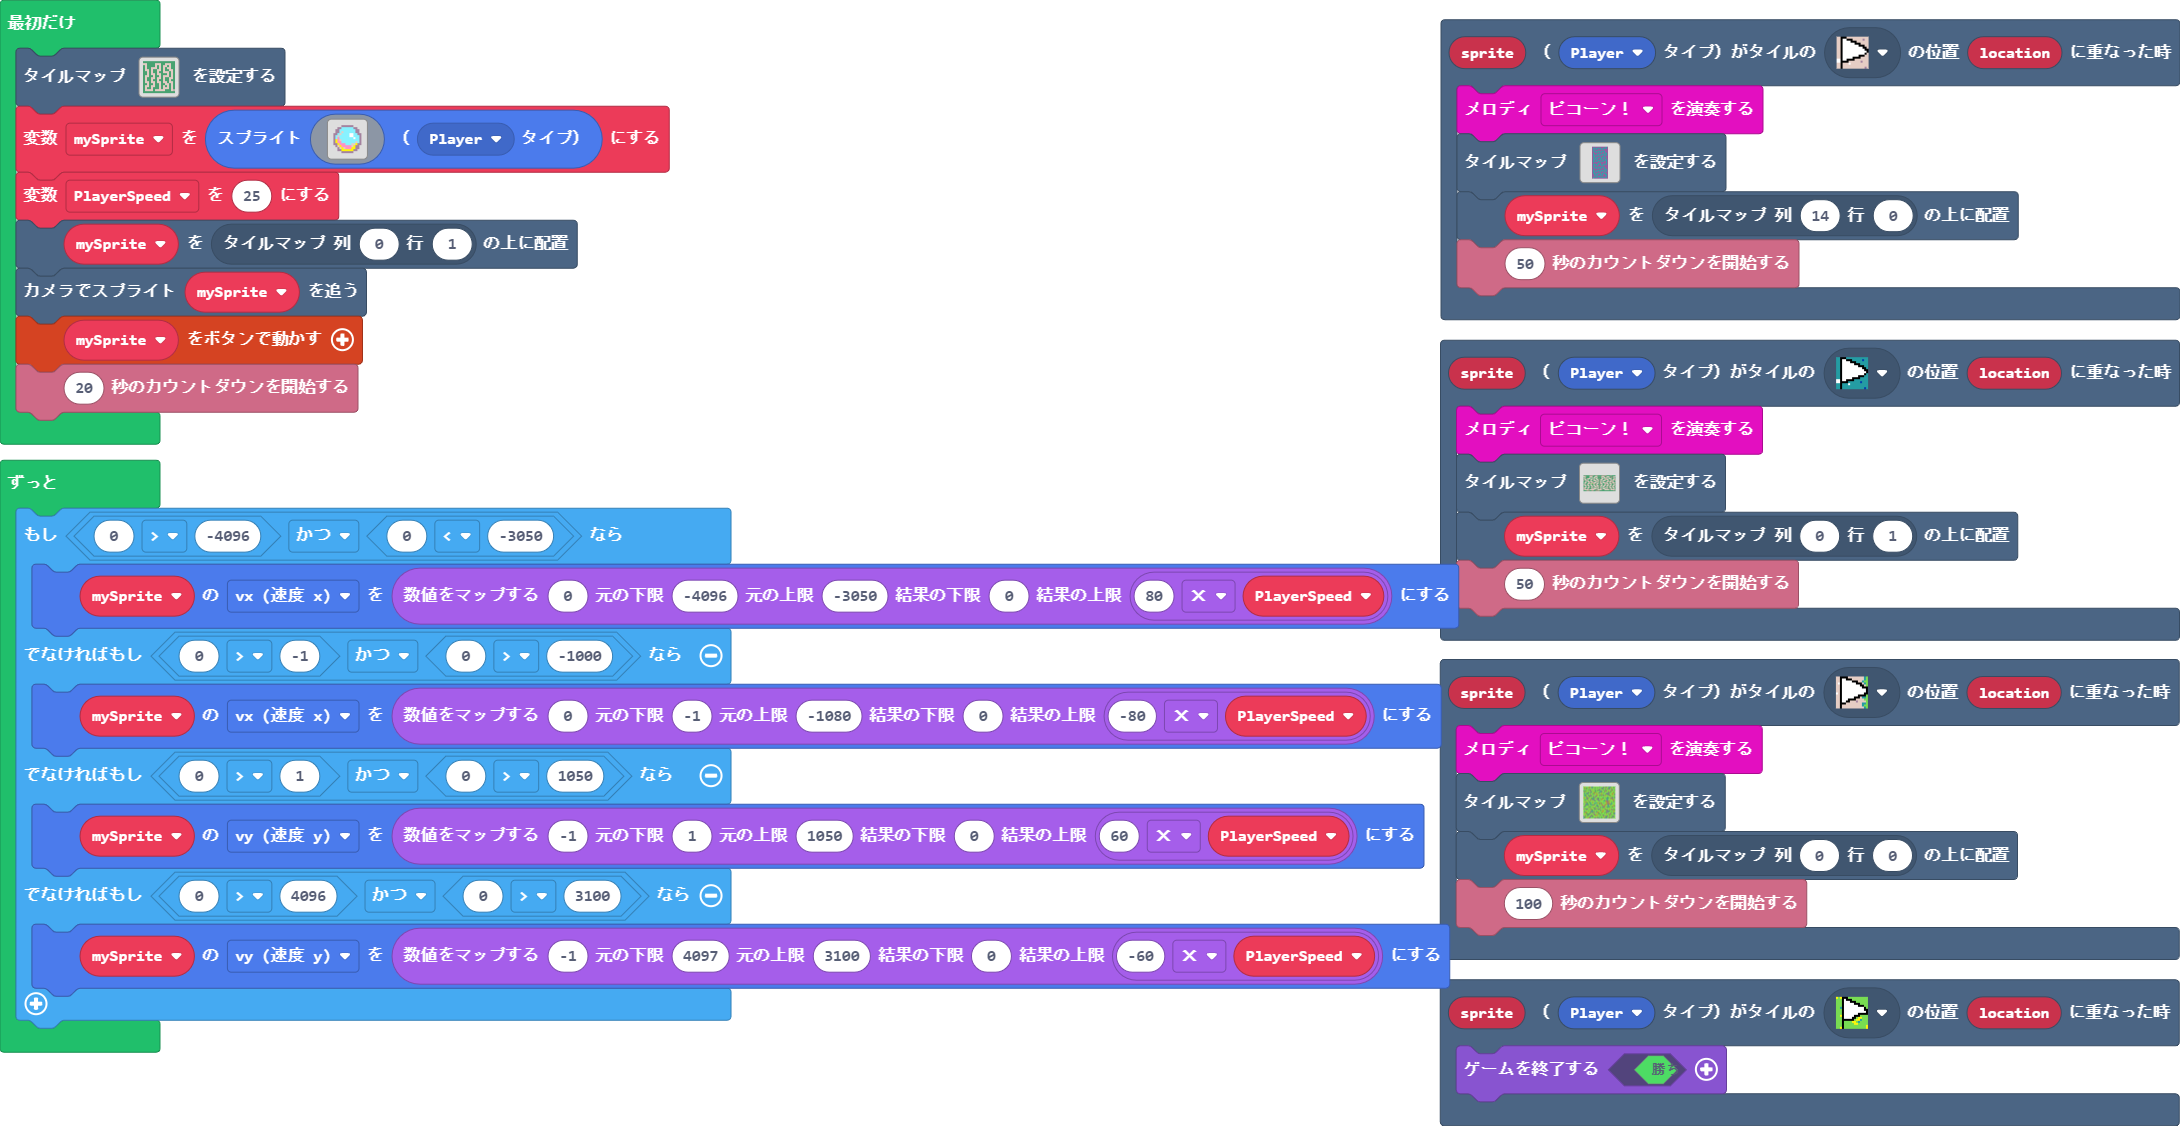
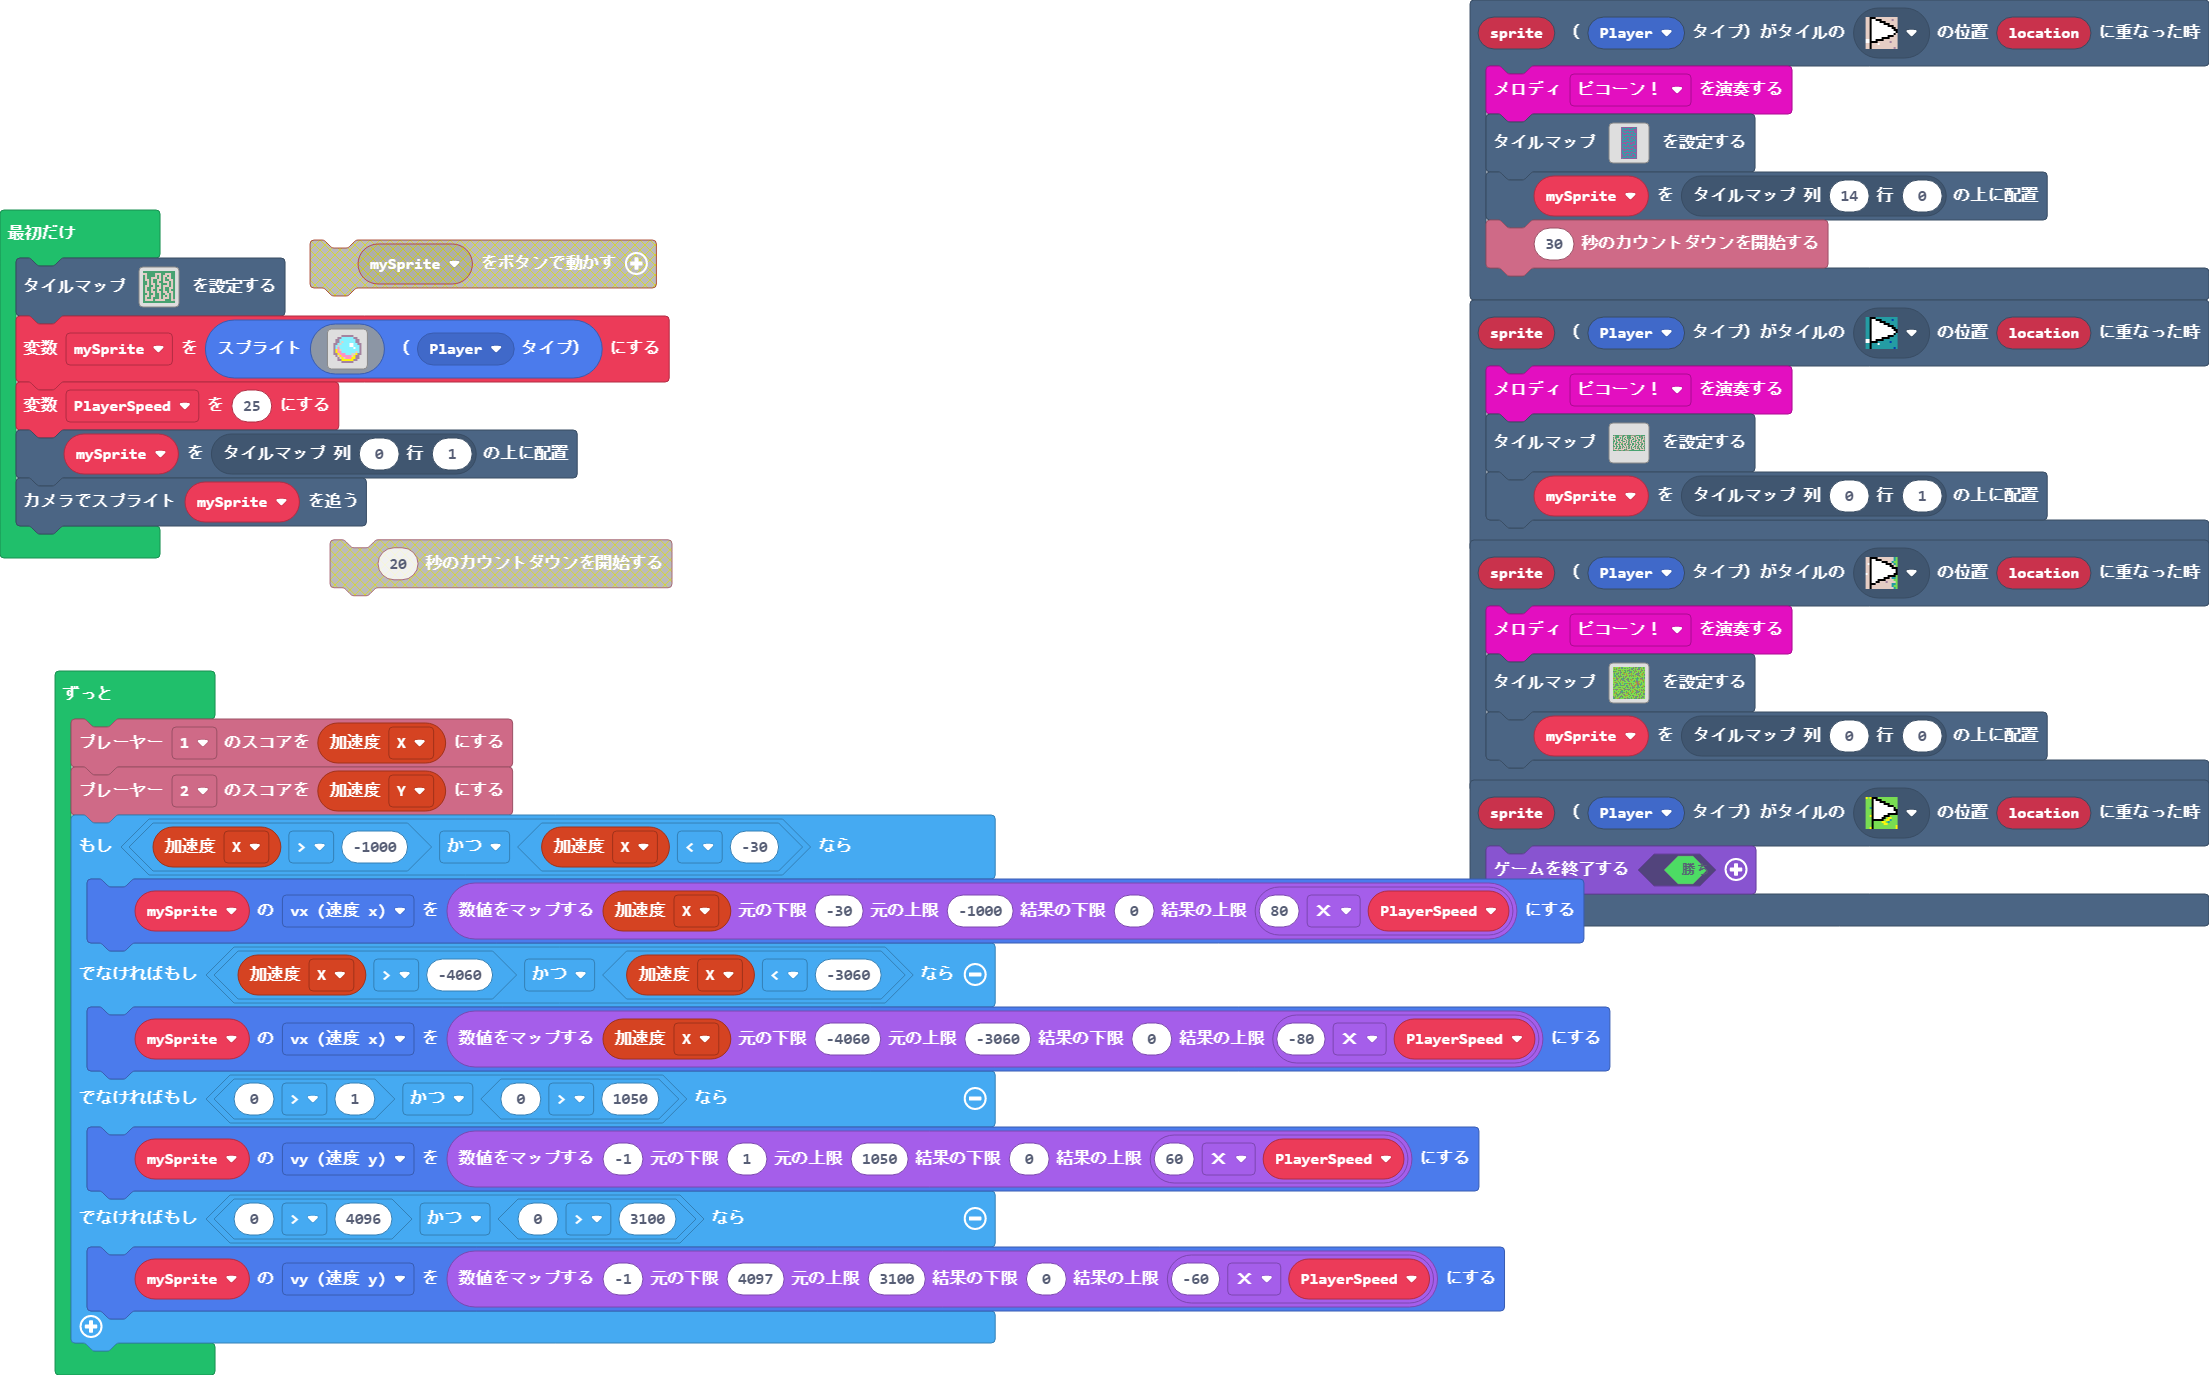
更新 main.blocks, main.ts

diff --git a/main.ts b/main.ts
@@ -42,13 +42,13 @@ mySprite = sprites.create(img`
 let PlayerSpeed = 25
 tiles.placeOnTile(mySprite, tiles.getTileLocation(0, 1))
 scene.cameraFollowSprite(mySprite)
-controller.moveSprite(mySprite)
-info.startCountdown(20)
 forever(function () {
-    if (0 > -4096 && 0 < -3050) {
-        mySprite.vx = Math.map(0, -4096, -3050, 0, 80 * PlayerSpeed)
-    } else if (0 > -1 && 0 > -1000) {
-        mySprite.vx = Math.map(0, -1, -1080, 0, -80 * PlayerSpeed)
+    info.player1.setScore(controller.acceleration(ControllerDimension.X))
+    info.player2.setScore(controller.acceleration(ControllerDimension.Y))
+    if (controller.acceleration(ControllerDimension.X) > -1000 && controller.acceleration(ControllerDimension.X) < -30) {
+        mySprite.vx = Math.map(controller.acceleration(ControllerDimension.X), -30, -1000, 0, 80 * PlayerSpeed)
+    } else if (controller.acceleration(ControllerDimension.X) > -4060 && controller.acceleration(ControllerDimension.X) < -3060) {
+        mySprite.vx = Math.map(controller.acceleration(ControllerDimension.X), -4060, -3060, 0, -80 * PlayerSpeed)
     } else if (0 > 1 && 0 > 1050) {
         mySprite.vy = Math.map(-1, 1, 1050, 0, 60 * PlayerSpeed)
     } else if (0 > 4096 && 0 > 3100) {
